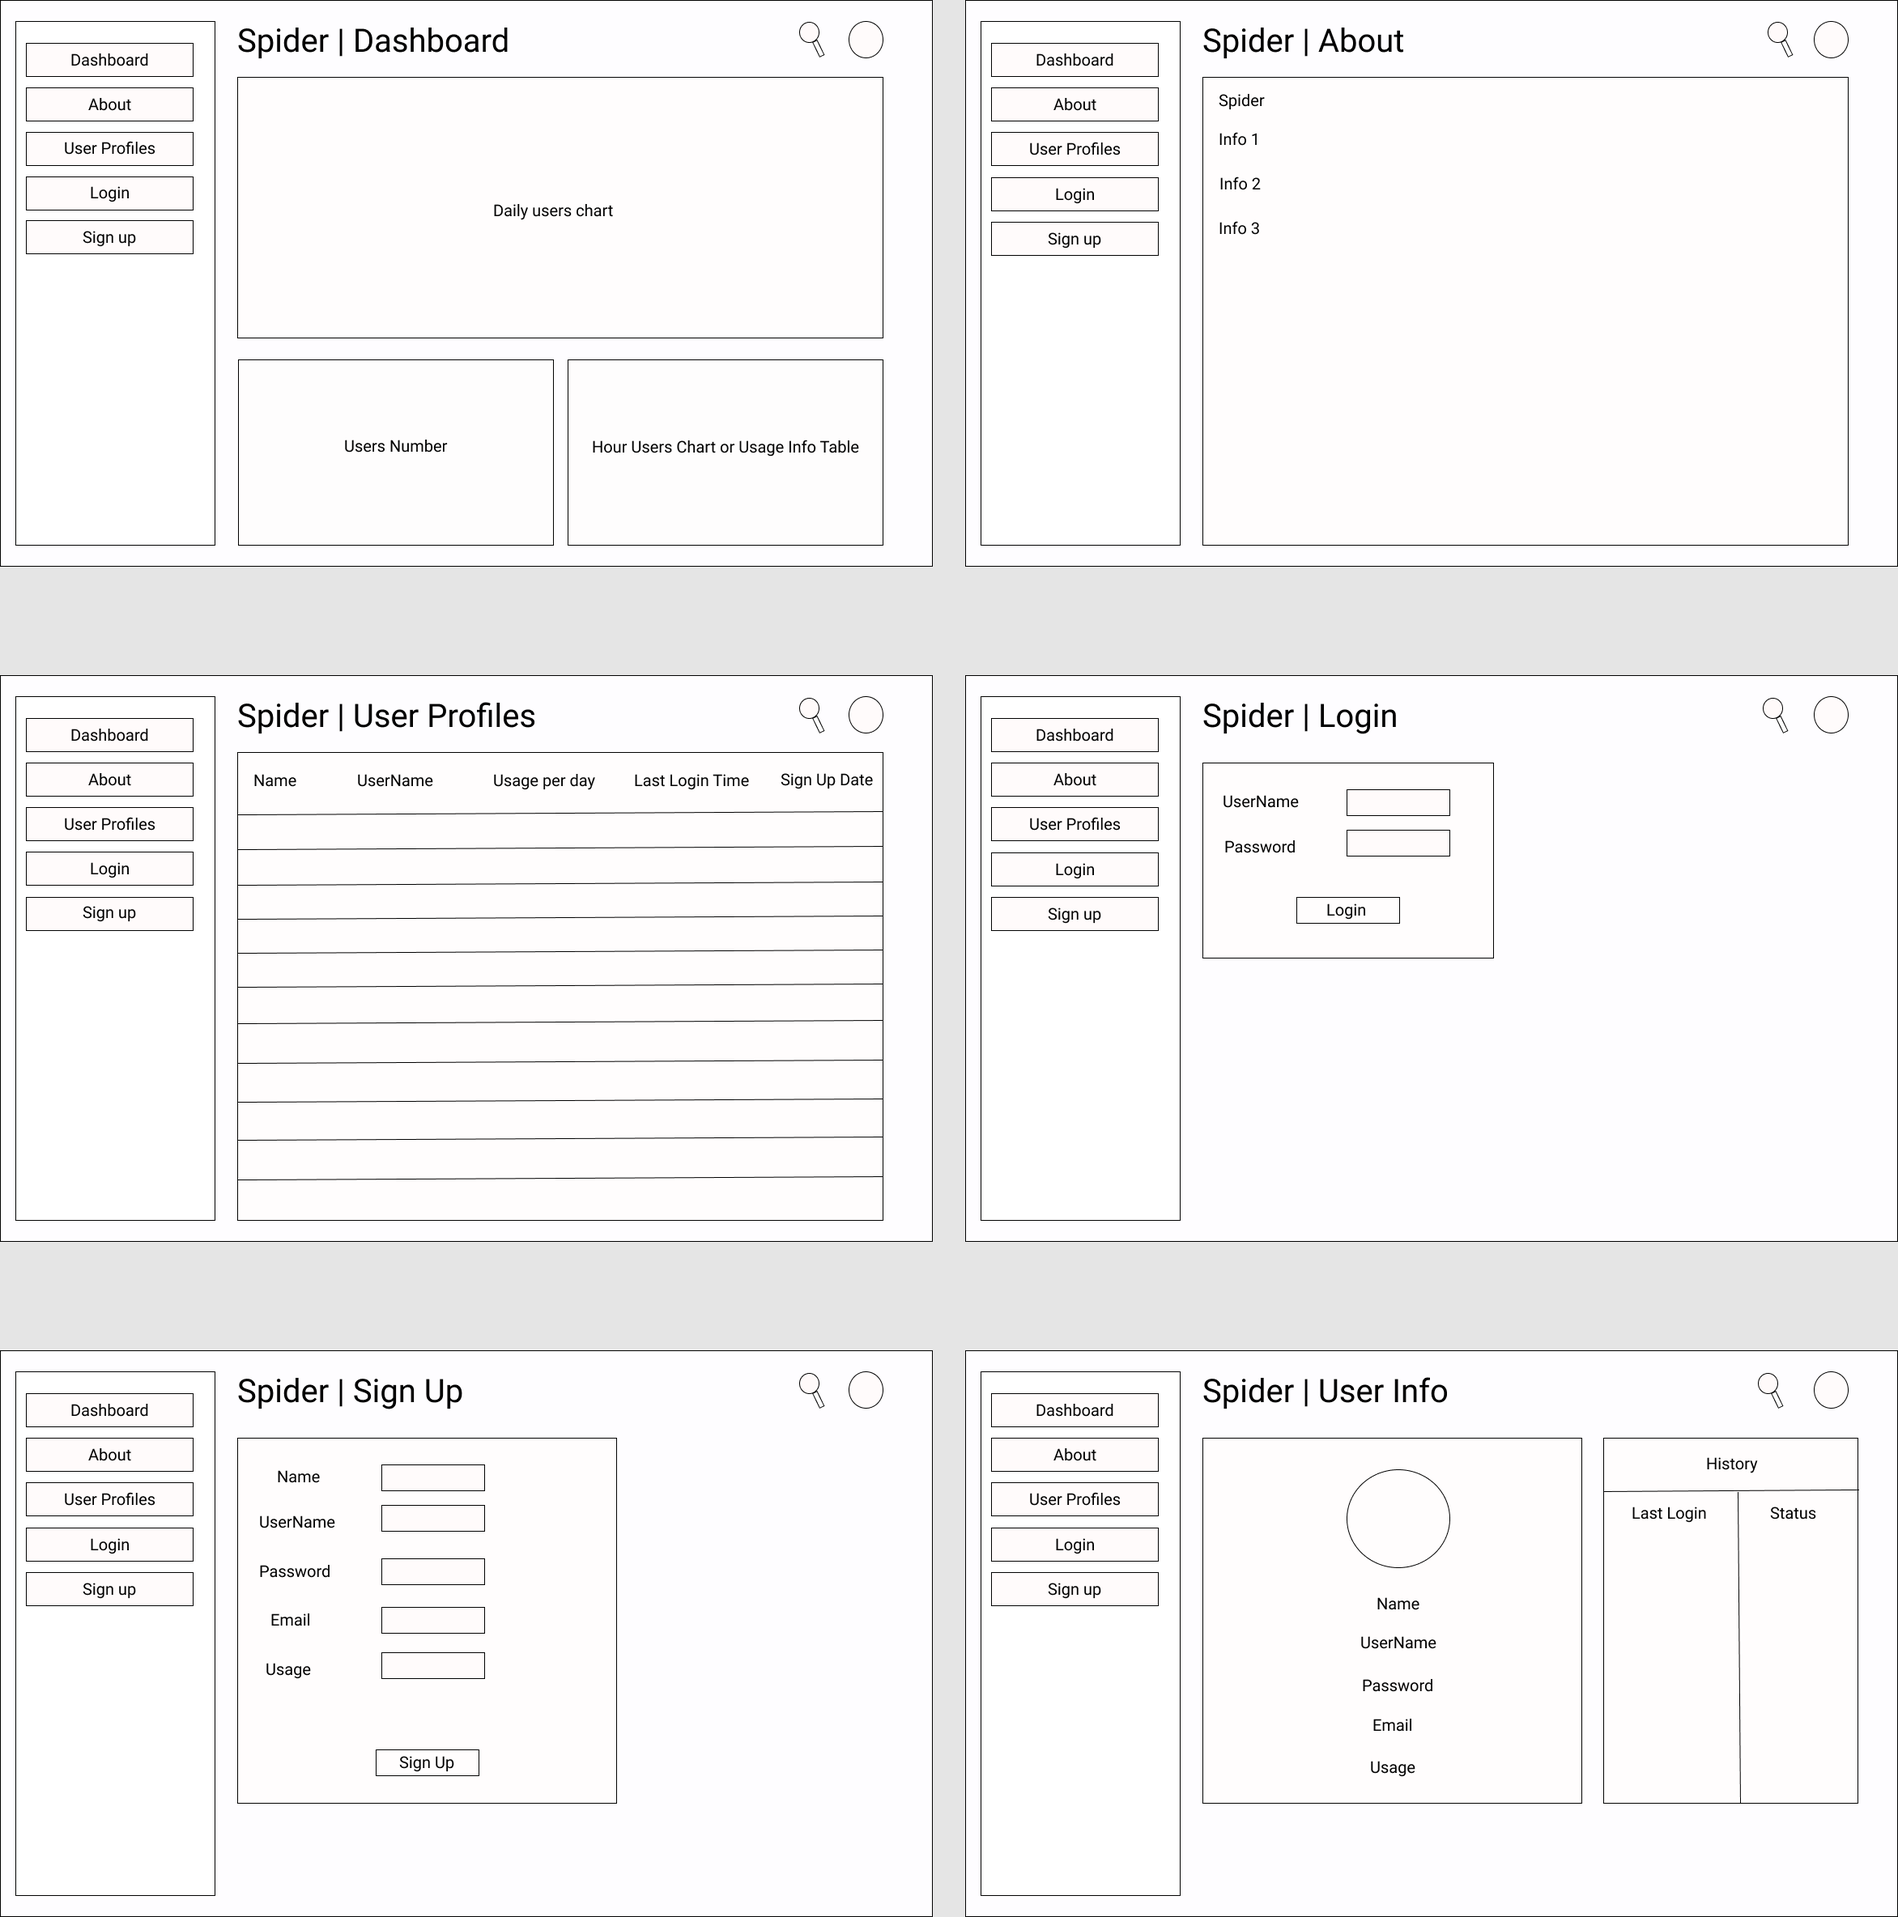
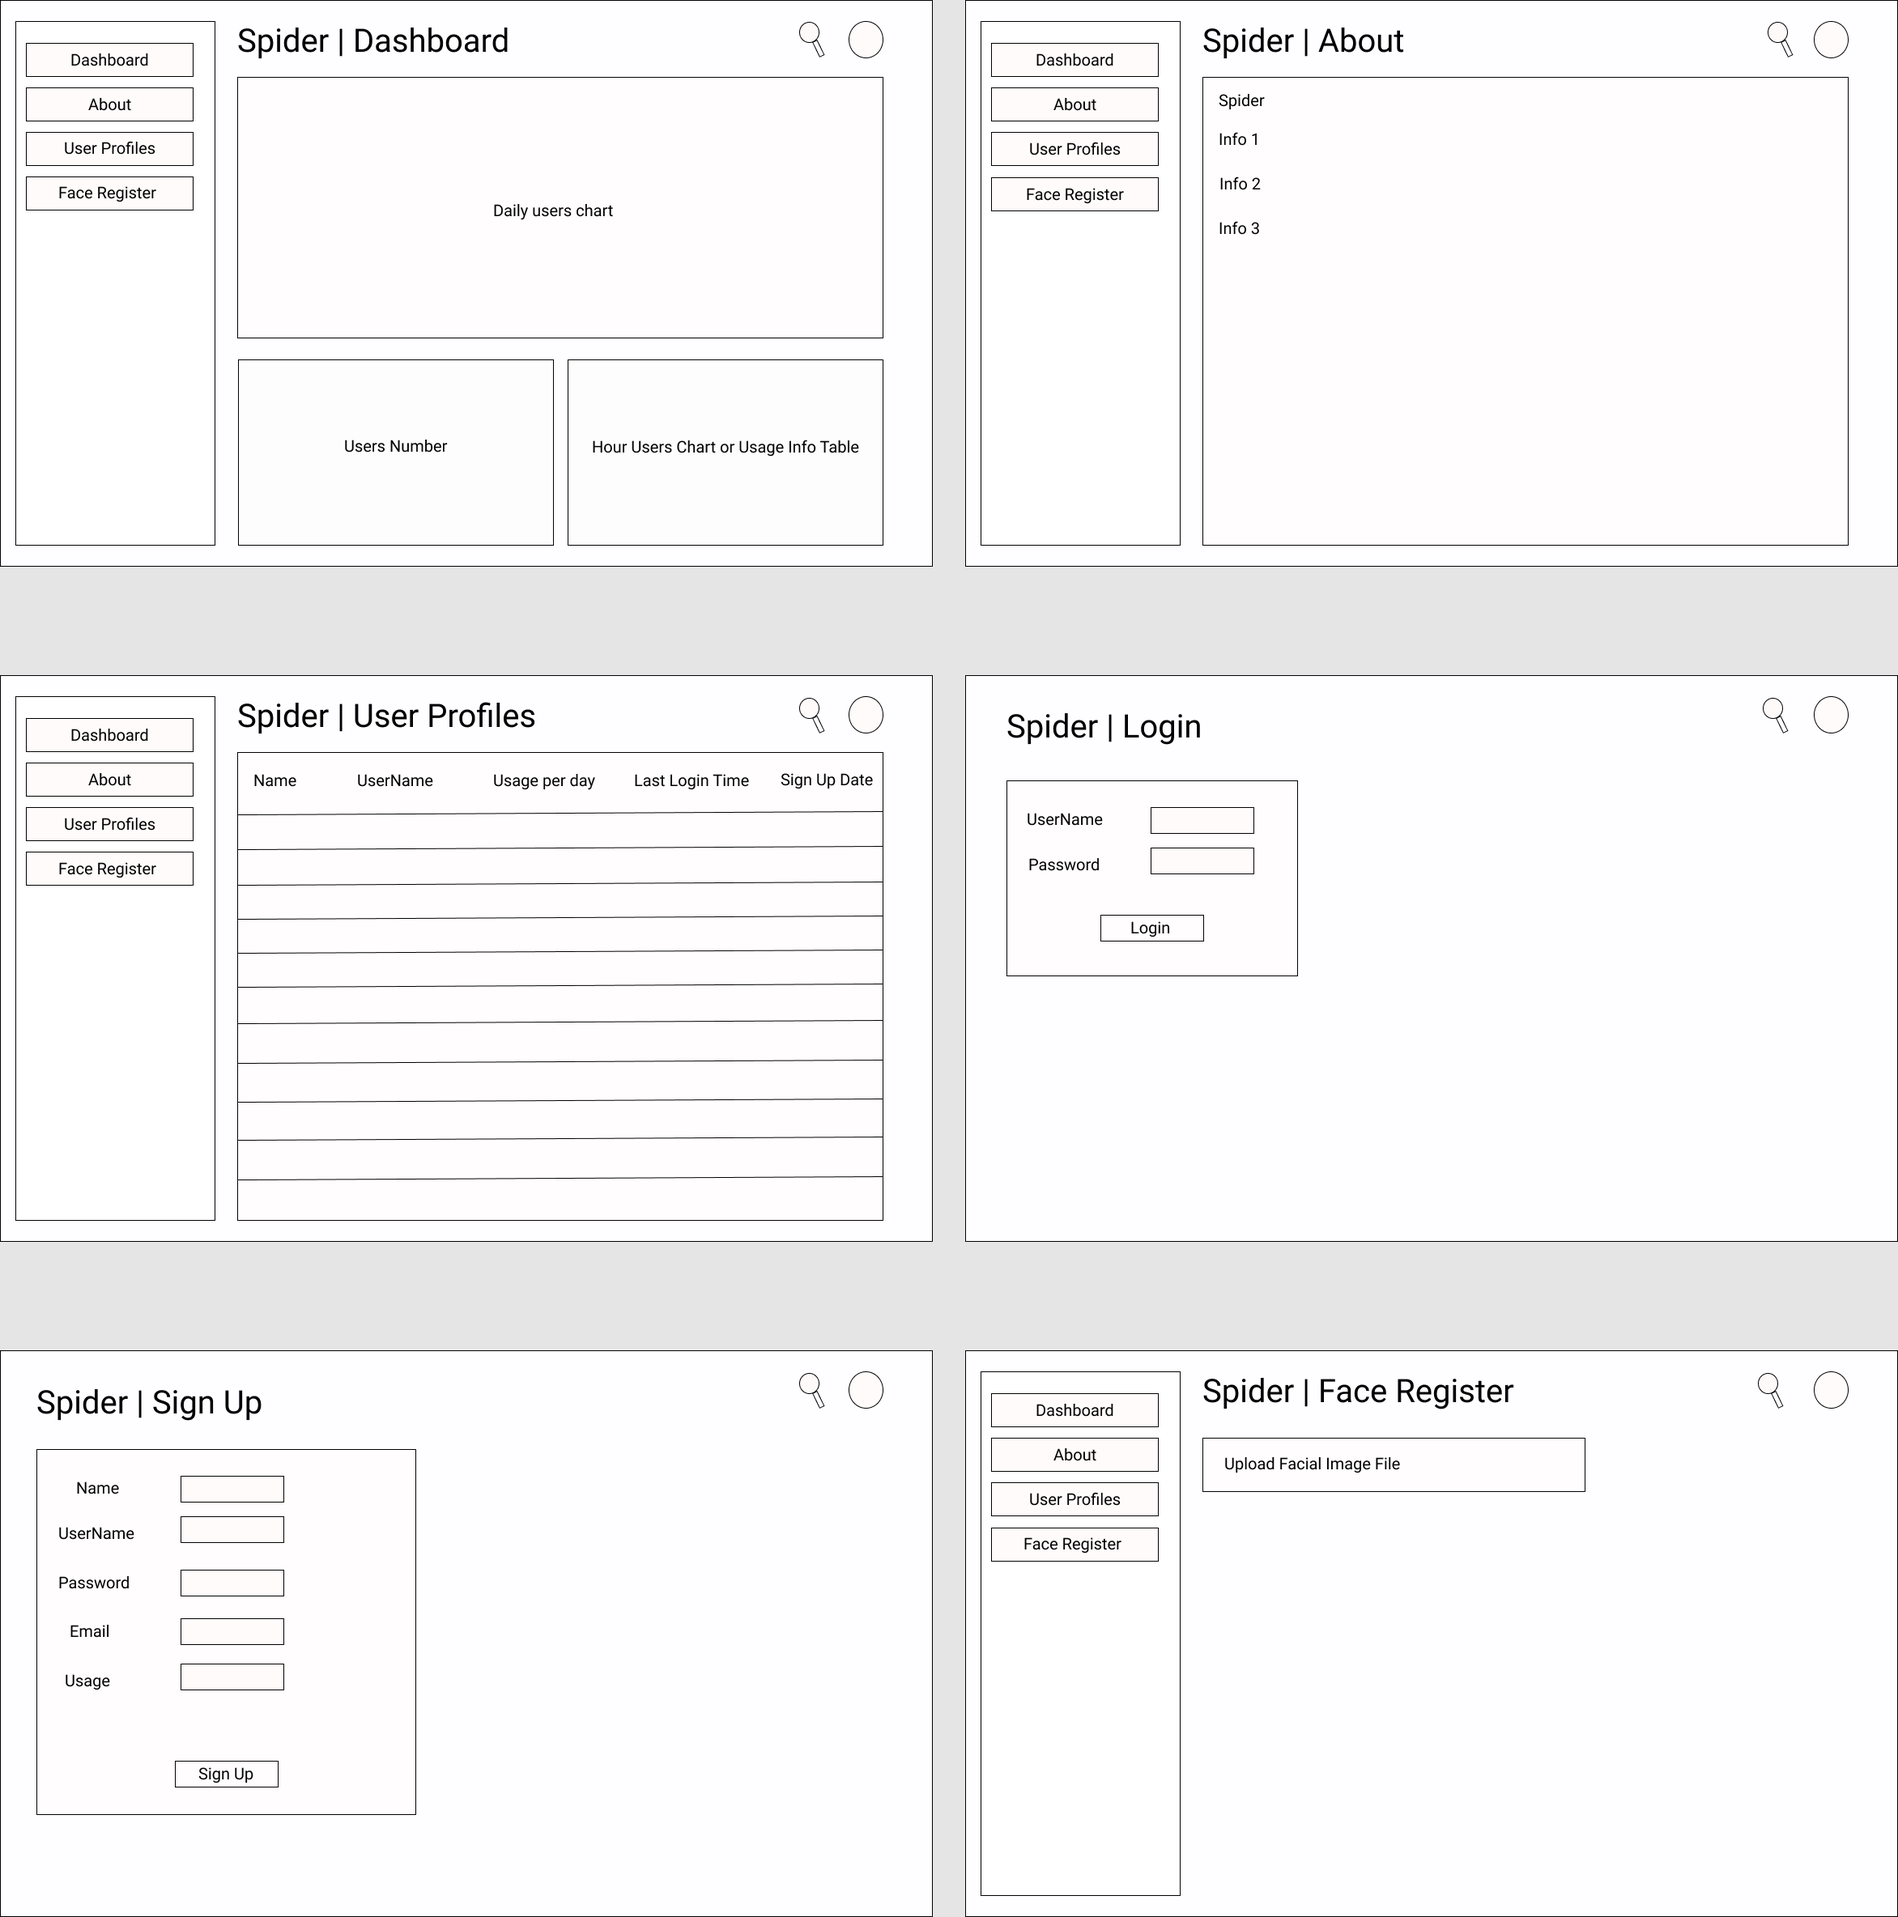
Updated README.md

diff --git a/README.md b/README.md
@@ -1,5 +1,114 @@
-# spider
-Spider is a SDK that supports face recognition and detection for system access. It is the final project for CS50. 
+# Spider / Best Security Solution
 
-Web Design
+
+
+Spider is an access control security solution aimed for various security usage.
+
+  - Hardware and Software (Raspberry Pi 3 and Django Framework)
+  - Face Recognition / Identification
+  - User Statistics and Profiling
+
+Specific Descrition:
+> Spider is an access control security solution that allows face detection to login using both the hardware (Raspberry Pi) and the software (Django) which will work as a 'Access control service' for various usage. Spider allows users to 'sign up' by uploading their facial images, which will be stored in the AWS S3 Cloud Storage. When the user wants to login to a platform, Spider will detect the user's face using the camera module of Raspberry Pi, and it will download the facial image (labeled to that user) from the cloud storage and will compare with the user's face who's trying to login. If the facial description matches (using opencv library), the user will be granted access. If not, they will be denied access. The focus of this security solution is the use of both the hardware and software component to create a safe and quick 'access control system.' The admin of Spider is provided with user statics and profiling through dashboard frontend. 
+
+### Tech
+
+Below is the specification for technologies used in Spider:
+
+* [ Infrastructure] - [AWS (Amazon Web Service)] - EC2, S3 (Cloud Storage)
+* [ Database ] - [Postgresql]
+* [ Language ] - Python 3.8 (BackEnd), Html, Javascript, CSS (FrontEnd)
+* [ Framework ] - Django (BackEnd), [Bootstrap] (FrontEnd)
+* [ Open-source Libraries ] - [OpenCV] (for face identification), Django ([rest_framework]) 
+* [ Specific Points ] 
+     *  [Raspberry Pi 3] Hardware based Face Recognition and Detection
+     *  Using both hardware and software
+     *  Seeking stable system development by separated analysis system (Raspberry Pi) from the user interface (API server)
+
+
+### Installation
+
+Install from git. Download zip file or git clone.
+
+Install python dev and pip3:
+```sh
+$ apt-get install python3-dev
+$ apt-get install python3-pip
+```
+
+For production environment:
+```sh
+$ pip3 install virtualenv
+$ virtualenv envspider
+```
+
+Enter environment:
+```sh
+$ cd envspider/bin
+$ source activate
+```
+If virtualenv is successfully activated, the command line should look like (envspider) ~~~
+
+Spider requires number of python libraries to run. Install requirements.txt:
+```sh
+$ pip3 install -r requirements.txt
+```
+
+Migrate Postgres DB:
+```sh
+$ python3 manage.py makemigrations
+$ python3 manage.py migrate
+```
+
+Create superuser for Postgres DB:
+```sh
+$ python3 manage.py createsuperuser
+```
+
+Collect static and Run server (port: 8080):
+```sh
+$ python3 manage.py collectstatic
+$ python3 manage.py runserver 0.0.0.0:8080
+```
+
+
+### User Manual
+1. Login or Register for admin account
+        - This will redirect the admin to the dashboard.
+2. Upload Facial Images through the Face Register tab on the Navbar
+        - Those with Facial Images uploaded are granted access by face detection (using the camera module of the Raspberry Pi 3).
+        - Admin can upload as many pictures of the users who will be granted access.
+3. Dashboard tab shows the user statistics and profiling.
+4. About tab shows the general information on Spider.
+5. User Profile tab shows the user info who has been granted access by the admin.
+6. The side bar allows the admin to change background colors for the web.
+
+### WireFrame
 ![alt text](https://github.com/yongincho/spider/blob/main/extra/Spider_webdesign.png)
+
+
+### Screenshots of Spider
+![alt text](https://github.com/yongincho/spider/blob/main/extra/Spider_screenshot1.png)
+![alt text](https://github.com/yongincho/spider/blob/main/extra/Spider_screenshot2.png)
+![alt text](https://github.com/yongincho/spider/blob/main/extra/Spider_screenshot3.png)
+![alt text](https://github.com/yongincho/spider/blob/main/extra/Spider_screenshot4.png)
+![alt text](https://github.com/yongincho/spider/blob/main/extra/Spider_screenshot5.png)
+![alt text](https://github.com/yongincho/spider/blob/main/extra/Spider_screenshot6.png)
+
+License
+----
+
+Spider Co. Ltd.
+
+
+**Hope you make the most out of Spider!**
+
+[//]: # (These are reference links)
+
+
+   [AWS (Amazon Web Service)]: <https://aws.amazon.com/>
+   [Postgresql]: <https://www.postgresql.org/>
+   [Bootstrap]: <https://getbootstrap.com/docs/5.0/getting-started/introduction/>
+   [OpenCV]: <https://opencv.org/>
+   [rest_framework]: <https://www.django-rest-framework.org/>
+   [Raspberry Pi 3]: <https://www.raspberrypi.org/products/raspberry-pi-3-model-b/?resellerType=home>
